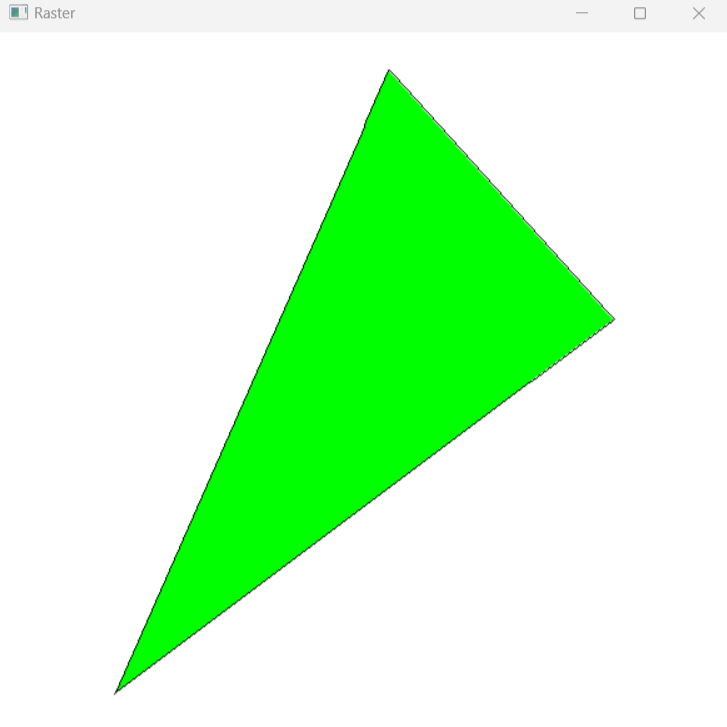
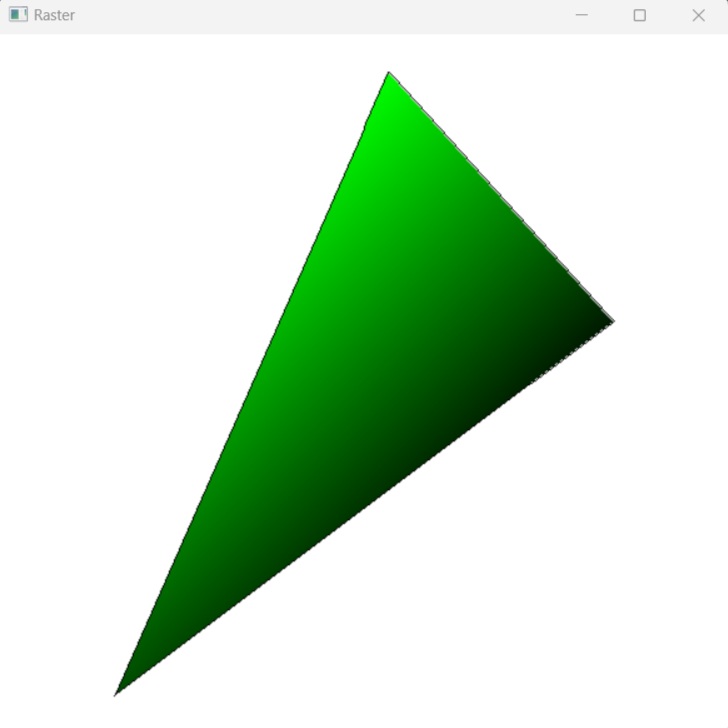
8 shaded triangle

diff --git a/raster/src/canvas.c b/raster/src/canvas.c
@@ -6,36 +6,44 @@
 
 const color backgroud_color = {.argb = 0xffffff};
 
-void vec2_swap(vec2 *p0, vec2 *p1)
+void vec3_swap(vec3 *p0, vec3 *p1)
 {
-    vec2 p = *p0;
+    vec3 p = *p0;
     p0->x = p1->x;
     p0->y = p1->y;
+    p0->p = p1->p;
     p1->x = p.x;
     p1->y = p.y;
+    p1->p = p.p;
 }
 
-void interpolate(const f64 i0, const f64 d0, const f64 i1, const f64 d1, i32 (*out_result)[])
-{
-    f64 a = (d1 - d0) / (i1 - i0);
-    f64 d = d0;
-    for (i32 i = 0; i < i1 - i0; i++)
-    {
-        (*out_result)[i] = d;
-        d += a;
+#define INTERPOLATE_HELPER(n) n##_interpolate
+
+#define INTERPOLATE_DEF(t)                                                                               \
+    void INTERPOLATE_HELPER(t)(const f64 i0, const f64 d0, const f64 i1, const f64 d1, t(*out_result)[]) \
+    {                                                                                                    \
+        f64 a = (d1 - d0) / (i1 - i0);                                                                   \
+        f64 d = d0;                                                                                      \
+        for (i32 i = 0; i < i1 - i0; i++)                                                                \
+        {                                                                                                \
+            (*out_result)[i] = d;                                                                        \
+            d += a;                                                                                      \
+        }                                                                                                \
     }
-}
 
-void draw_line(canvas ctx, vec2 p0, vec2 p1, color color)
+INTERPOLATE_DEF(i32);
+INTERPOLATE_DEF(f64);
+
+void draw_line(canvas ctx, vec3 p0, vec3 p1, color color)
 {
     if (fabs(p0.x - p1.x) > fabs(p0.y - p1.y))
     {
         if (p0.x > p1.x)
         {
-            vec2_swap(&p0, &p1);
+            vec3_swap(&p0, &p1);
         }
         memset(ctx.line_point_result, 0, sizeof(i32) * (p1.x - p0.x));
-        interpolate(p0.x, p0.y, p1.x, p1.y, ctx.line_point_result);
+        i32_interpolate(p0.x, p0.y, p1.x, p1.y, ctx.line_point_result);
         for (i32 i = p0.x; i < p1.x; i++)
         {
             i32 idx = i - p0.x;
@@ -46,11 +54,11 @@ void draw_line(canvas ctx, vec2 p0, vec2 p1, color color)
     {
         if (p0.y > p1.y)
         {
-            vec2_swap(&p0, &p1);
+            vec3_swap(&p0, &p1);
         }
 
         memset(ctx.line_point_result, 0, sizeof(i32) * (p1.y - p0.y));
-        interpolate(p0.y, p0.x, p1.y, p1.x, ctx.line_point_result);
+        i32_interpolate(p0.y, p0.x, p1.y, p1.x, ctx.line_point_result);
         for (i32 i = p0.y; i < p1.y; i++)
         {
             i32 idx = i - p0.y;
@@ -59,57 +67,77 @@ void draw_line(canvas ctx, vec2 p0, vec2 p1, color color)
     }
 }
 
-void draw_filled_triangle(canvas ctx, vec2 p0, vec2 p1, vec2 p2, color color)
+void draw_filled_triangle(canvas ctx, vec3 p0, vec3 p1, vec3 p2, color color)
 {
     if (p0.y > p1.y)
     {
-        vec2_swap(&p0, &p1);
+        vec3_swap(&p0, &p1);
     }
     if (p0.y > p2.y)
     {
-        vec2_swap(&p0, &p2);
+        vec3_swap(&p0, &p2);
     }
     if (p1.y > p2.y)
     {
-        vec2_swap(&p1, &p2);
+        vec3_swap(&p1, &p2);
     }
 
-    interpolate(p0.y, p0.x, p1.y, p1.x, ctx.triangle_point_result01);
-    interpolate(p1.y, p1.x, p2.y, p2.x, ctx.triangle_point_result12);
-    interpolate(p0.y, p0.x, p2.y, p2.x, ctx.triangle_point_result02);
+    i32_interpolate(p0.y, p0.x, p1.y, p1.x, ctx.triangle_point_result01);
+    f64_interpolate(p0.y, p0.p, p1.y, p1.p, ctx.shade_result01);
+
+    i32_interpolate(p1.y, p1.x, p2.y, p2.x, ctx.triangle_point_result12);
+    f64_interpolate(p1.y, p1.p, p2.y, p2.p, ctx.shade_result12);
+
+    i32_interpolate(p0.y, p0.x, p2.y, p2.x, ctx.triangle_point_result02);
+    f64_interpolate(p0.y, p0.p, p2.y, p2.p, ctx.shade_result02);
 
     i32 result_01_len = p1.y - p0.y;
     i32 result_12_len = p2.y - p1.y;
     i32 *x01_tail_ptr = ((i32 *)ctx.triangle_point_result01) + (result_01_len - 1);
-    for (i32 i = 0; i < result_12_len; i++, x01_tail_ptr++)
+    f64 *h01_tail_ptr = ((f64 *)ctx.shade_result01) + (result_01_len - 1);
+    for (i32 i = 0; i < result_12_len; i++, x01_tail_ptr++, h01_tail_ptr++)
     {
         *x01_tail_ptr = (*ctx.triangle_point_result12)[i];
+        *h01_tail_ptr = (*ctx.shade_result12)[i];
     }
+
     i32 middle = floor((result_01_len + result_12_len - 1) / 2);
     i32(*x_left)[] = 0;
     i32(*x_right)[] = 0;
+    f64(*h_left)[] = 0;
+    f64(*h_right)[] = 0;
 
     if ((*ctx.triangle_point_result02)[middle] < (*ctx.triangle_point_result01)[middle])
     {
         x_left = ctx.triangle_point_result02;
-        x_right = ctx.triangle_point_result01;
+        h_left = ctx.shade_result02;
+
+        x_right = ctx.triangle_point_result01; // 012
+        h_right = ctx.shade_result01;          // 012
     }
     else
     {
-        x_left = ctx.triangle_point_result01;
+        x_left = ctx.triangle_point_result01; // 012
+        h_left = ctx.shade_result01;          // 012
+
         x_right = ctx.triangle_point_result02;
+        h_right = ctx.shade_result02;
     }
 
     for (i32 y = p0.y; y < p2.y; y++)
     {
-        for (i32 x = (*x_left)[(i32)(y - p0.y)]; x < (*x_right)[(i32)(y - p0.y)]; x++)
+        i32 x_l = (*x_left)[(i32)(y - p0.y)];
+        i32 x_r = (*x_right)[(i32)(y - p0.y)];
+        for (i32 x = x_l; x < x_r; x++)
         {
-            ctx.put_pixel(CENTER_TO_ZERO_X(ctx.width, x), CENTER_TO_ZERO_Y(ctx.height, y), color.argb);
+            f64_interpolate(x_l, (*h_left)[(i32)(y - p0.y)], x_r, (*h_right)[(i32)(y - p0.y)], ctx.shade_segment_result);
+
+            ctx.put_pixel(CENTER_TO_ZERO_X(ctx.width, x), CENTER_TO_ZERO_Y(ctx.height, y), color_mul_scalar(color, (*ctx.shade_segment_result)[x - x_l]).argb);
         }
     }
 }
 
-void draw_wire_frame_triangle(canvas ctx, vec2 p0, vec2 p1, vec2 p2, color color)
+void draw_wire_frame_triangle(canvas ctx, vec3 p0, vec3 p1, vec3 p2, color color)
 {
     draw_line(ctx, p0, p1, color);
     draw_line(ctx, p1, p2, color);
@@ -118,9 +146,9 @@ void draw_wire_frame_triangle(canvas ctx, vec2 p0, vec2 p1, vec2 p2, color color
 
 void render_frame(canvas canvas)
 {
-    vec2 p0 = {-200, -250};
-    vec2 p1 = {200, 50};
-    vec2 p2 = {20, 250};
+    vec3 p0 = {-200, -250, 0.3};
+    vec3 p1 = {200, 50, 0.1};
+    vec3 p2 = {20, 250, 1};
     color green_color = {.r = 0, .g = 255, .b = 0};
     color black_color = {.argb = 0x0};
     draw_filled_triangle(canvas, p0, p1, p2, green_color);

diff --git a/raster/src/main.c b/raster/src/main.c
@@ -99,6 +99,10 @@ i32 WINAPI WinMain(HINSTANCE instance, HINSTANCE prev_instance, LPSTR cmd, i32 c
     canvas_ctx.triangle_point_result01 = malloc(sizeof(i32) * max(canvas_ctx.width, canvas_ctx.height));
     canvas_ctx.triangle_point_result12 = malloc(sizeof(i32) * max(canvas_ctx.width, canvas_ctx.height));
     canvas_ctx.triangle_point_result02 = malloc(sizeof(i32) * max(canvas_ctx.width, canvas_ctx.height));
+    canvas_ctx.shade_result01 = malloc(sizeof(f64) * max(canvas_ctx.width, canvas_ctx.height));
+    canvas_ctx.shade_result12 = malloc(sizeof(f64) * max(canvas_ctx.width, canvas_ctx.height));
+    canvas_ctx.shade_result02 = malloc(sizeof(f64) * max(canvas_ctx.width, canvas_ctx.height));
+    canvas_ctx.shade_segment_result = malloc(sizeof(f64) * max(canvas_ctx.width, canvas_ctx.height));
 
     memory = VirtualAlloc(0, canvas_ctx.width * canvas_ctx.height * 4, MEM_RESERVE | MEM_COMMIT, PAGE_READWRITE);
 
@@ -137,5 +141,9 @@ i32 WINAPI WinMain(HINSTANCE instance, HINSTANCE prev_instance, LPSTR cmd, i32 c
     free(canvas_ctx.triangle_point_result01);
     free(canvas_ctx.triangle_point_result12);
     free(canvas_ctx.triangle_point_result02);
+    free(canvas_ctx.shade_result01);
+    free(canvas_ctx.shade_result12);
+    free(canvas_ctx.shade_result02);
+    free(canvas_ctx.shade_segment_result);
     return 0;
 }

diff --git a/raster/src/rmath_types.h b/raster/src/rmath_types.h
@@ -24,17 +24,15 @@ typedef union vec3_u
     {
         union
         {
-            f64 x, w, r;
+            f64 x, w;
         };
         union
         {
-            f64 y, h, g;
+            f64 y, h;
         };
         union
         {
-            f64 z, b;
+            f64 z, p;
         };
     };
 } vec3;
-
-typedef vec3 rgb;

diff --git a/raster/src/canvas.h b/raster/src/canvas.h
@@ -13,6 +13,10 @@ typedef struct canvas
     i32 (*triangle_point_result01)[];
     i32 (*triangle_point_result12)[];
     i32 (*triangle_point_result02)[];
+    f64 (*shade_result01)[];
+    f64 (*shade_result12)[];
+    f64 (*shade_result02)[];
+    f64 (*shade_segment_result)[];
 } canvas;
 
 void render_frame(canvas canvas);
